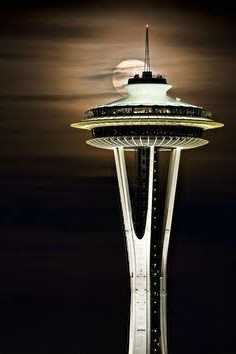
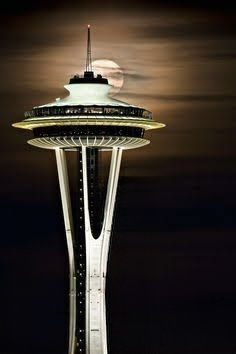
Display unique background image during evening hours on the dashboard
Implement time-based background image rotation in `dashboard.js` to show `IMG_6146.jpeg` between 6:00 PM and 10:00 PM.

Replit-Commit-Author: Agent
Replit-Commit-Session-Id: c8764c34-adcc-487d-9f73-b92e2fcde9bc
Replit-Commit-Screenshot-Url: https://storage.googleapis.com/screenshot-production-us-central1/fc158c80-3791-4226-8194-f900dc1df650/ac8f1761-16ad-4506-8e1a-2faa97af84ba.jpg

diff --git a/static/js/dashboard.js b/static/js/dashboard.js
@@ -40,13 +40,15 @@ function simulateTimeOfDay(testHour) {
     const root = document.documentElement;
     
     // Check for time-based background images
-    let backgroundImage = "url('/static/IMG_6138.jpeg')"; // Default dusk image
+    let backgroundImage = "url('/static/IMG_6138.jpeg')"; // Default night image
     if (timeDecimal >= 6 && timeDecimal < 10) {
         backgroundImage = "url('/static/IMG_6143.jpeg')"; // Morning image (6-10 AM)
     } else if (timeDecimal >= 10 && timeDecimal < 14) {
         backgroundImage = "url('/static/IMG_6144.jpeg')"; // Midday image (10 AM-2 PM)
     } else if (timeDecimal >= 14 && timeDecimal < 18) {
         backgroundImage = "url('/static/IMG_6143_afternoon.jpeg')"; // Afternoon image (2-6 PM)
+    } else if (timeDecimal >= 18 && timeDecimal < 22) {
+        backgroundImage = "url('/static/IMG_6146.jpeg')"; // Evening image (6-10 PM)
     }
     root.style.setProperty('--bg-image', backgroundImage);
     
@@ -115,13 +117,15 @@ function updateDynamicBackground() {
     const root = document.documentElement;
     
     // Check for time-based background images
-    let backgroundImage = "url('/static/IMG_6138.jpeg')"; // Default dusk image
+    let backgroundImage = "url('/static/IMG_6138.jpeg')"; // Default night image
     if (timeDecimal >= 6 && timeDecimal < 10) {
         backgroundImage = "url('/static/IMG_6143.jpeg')"; // Morning image (6-10 AM)
     } else if (timeDecimal >= 10 && timeDecimal < 14) {
         backgroundImage = "url('/static/IMG_6144.jpeg')"; // Midday image (10 AM-2 PM)
     } else if (timeDecimal >= 14 && timeDecimal < 18) {
         backgroundImage = "url('/static/IMG_6143_afternoon.jpeg')"; // Afternoon image (2-6 PM)
+    } else if (timeDecimal >= 18 && timeDecimal < 22) {
+        backgroundImage = "url('/static/IMG_6146.jpeg')"; // Evening image (6-10 PM)
     }
     root.style.setProperty('--bg-image', backgroundImage);
     
